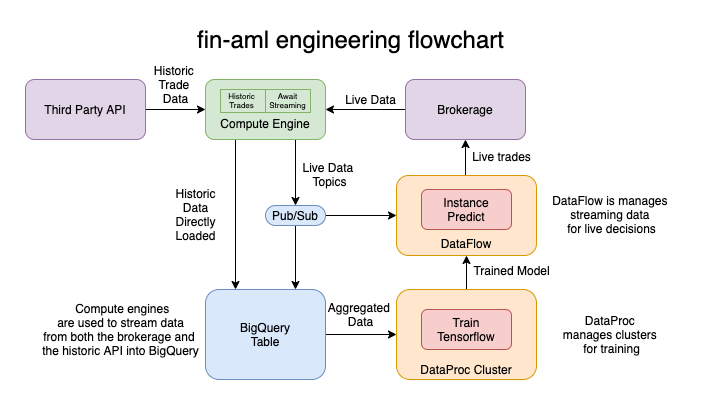
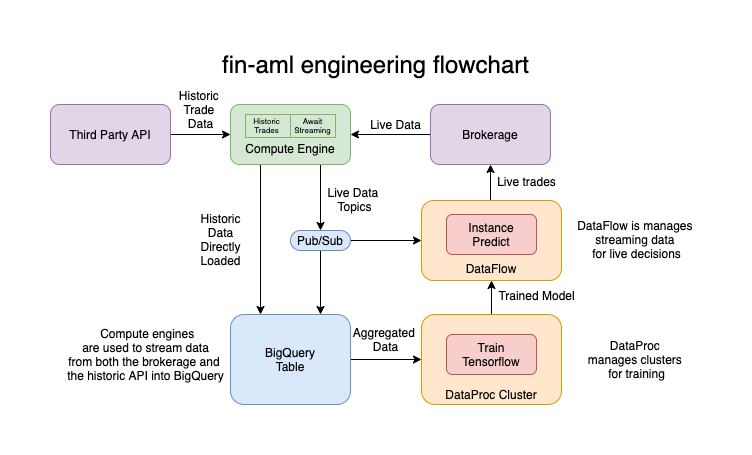
update readme

Changed region(s): [[0.0299, 0.0593, 0.9573, 0.9481]]

diff --git a/README.md b/README.md
@@ -30,5 +30,4 @@ Load's a previously trained model, queries the newest information and makes pred
 
 Tools: DataFlow (Apache Beam), Pandas, Python
 
-![engineering flowchart](images/fin-aml-engineering-flowchart_v2.png) 
-
+<img align="center" src="./images/fin-aml-engineering-flowchart_v2.png">
